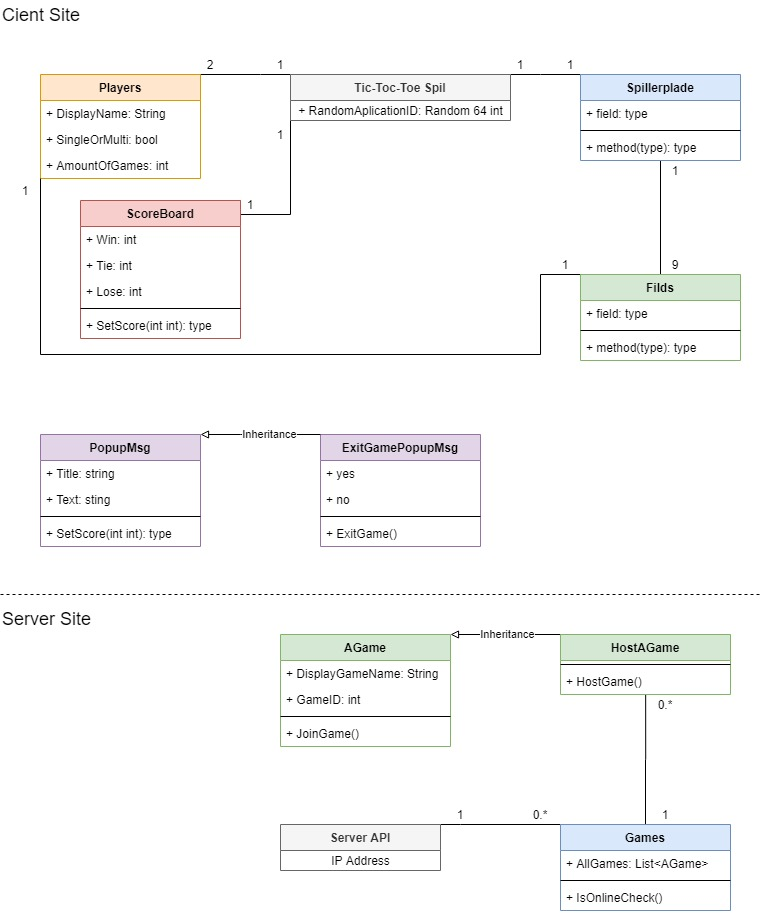
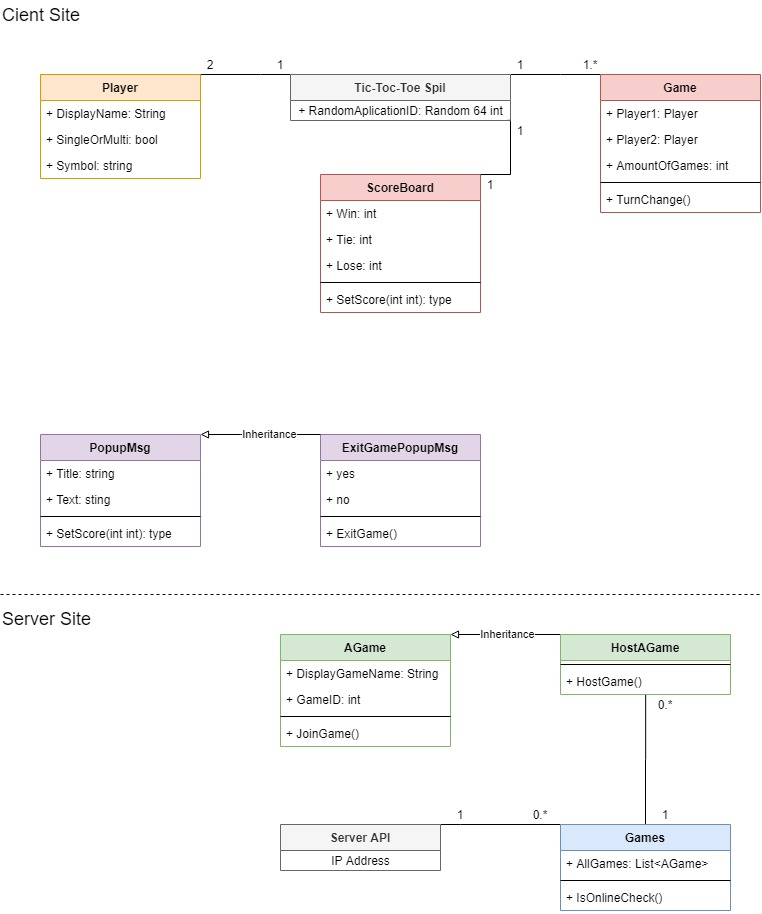
Update to the class diagram

diff --git a/TTT_Models/Player.cs b/TTT_Models/Player.cs
@@ -8,6 +8,6 @@ namespace TTT_Models
     {
         public string DisplayName { get; set; }
         public bool SingleOrMultiPlayer { get; set; }
-        public int AmountOfGames { get; set; }
+        public string Symbol { get; set; }
     }
 }

diff --git a/TTT_Repository/Game.cs b/TTT_Repository/Game.cs
@@ -1,0 +1,10 @@
+using System;
+using System.Collections.Generic;
+using System.Text;
+
+namespace TTT_Repository
+{
+    class Game
+    {
+    }
+}
